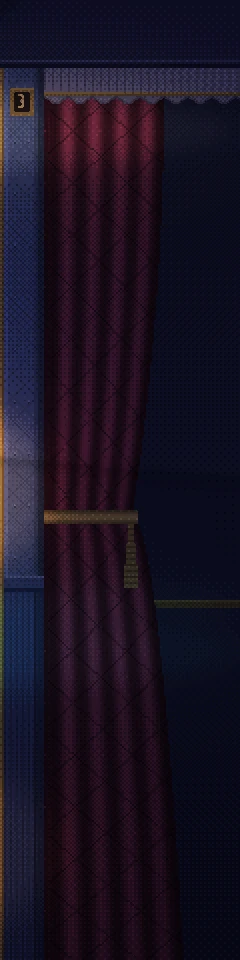
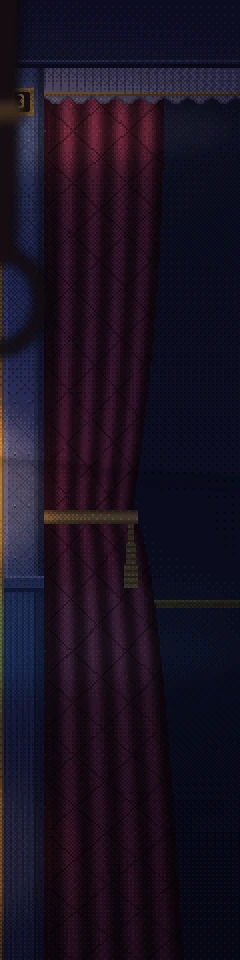
art(S-08): a foreground at the lens
Drawn into the room's picture: the padded end of the left-hand bench's armrest in the lower left corner, and a leather grab strap with a loop hanging from the ceiling at the upper right. Dark, large and blurred as if out of focus, their edges catching the neon and the lamp, and clear of every object. A separate parallax layer stays deferred (D-03).

Changed region(s): [[0.0, 0.0312, 0.175, 0.375]]

diff --git a/tools/art/room.py b/tools/art/room.py
@@ -1919,6 +1919,43 @@ def reflections(a, table, front, k):
 BANDS = float(os.environ.get('BANDS', '0.2')) or None
 
 
+# The near layer (docs/13, S-08, stage 6): things right at the lens, dark,
+# large and a little soft, so the picture has a foreground inside the room as
+# well as at its sides: the end of the left-hand bench's armrest in the lower
+# left corner, and a grab strap hanging from the ceiling at the upper right.
+# Drawn into the room's picture, not as a layer of its own (D-03), and clear of
+# every object, whose sprites are cut from the same picture.
+NEAR_BLUR = 2.2  # scene units: soft, being out of focus so near the lens
+
+
+def near_layer(a, k):
+    h, w = a.shape[:2]
+    lay = Image.new('RGBA', (w, h), (0, 0, 0, 0))
+    d = ImageDraw.Draw(lay)
+    to = lambda pts: [((x + OX) * k, y * k) for x, y in pts]
+    # the armrest: the bench's padded end, near the camera, its top edge
+    # catching the neon
+    arm = [(-60, 480), (-60, 336), (0, 318), (54, 322), (92, 344), (100, 372), (98, 480)]
+    d.polygon(to(arm), fill=(20, 12, 24, 255))
+    d.line(to([(-60, 336), (0, 318), (54, 322), (92, 344)]), fill=(130, 58, 118, 255), width=round(2 * k))
+    d.line(to([(-60, 342), (0, 325), (52, 329), (86, 348)]), fill=(46, 22, 46, 255), width=round(3 * k))
+    for x, y in ((10, 344), (48, 350), (28, 372), (70, 376)):  # buttons in its quilting
+        d.ellipse(to([(x - 2, y - 1.4), (x + 2, y + 1.4)]), fill=(8, 4, 12, 255))
+    # the grab strap: leather from the ceiling right by the lens, a loop at its
+    # foot, its edge toward the lamp catching it
+    strap = [(466, -4), (490, -4), (488, 132), (468, 132)]
+    d.polygon(to(strap), fill=(26, 16, 18, 255))
+    d.line(to([(467, -4), (468, 132)]), fill=(130, 76, 50, 255), width=round(1.5 * k))
+    d.rectangle(to([(464, 52), (492, 60)]), fill=(76, 54, 32, 255))
+    d.line(to([(464, 52), (492, 52)]), fill=(150, 116, 70, 255), width=round(1 * k))
+    d.ellipse(to([(452, 122), (504, 178)]), outline=(26, 16, 18, 255), width=round(8 * k))
+    d.arc(to([(452, 122), (504, 178)]), 120, 235, fill=(130, 76, 50, 255), width=round(1.5 * k))
+    lay = lay.filter(ImageFilter.GaussianBlur(NEAR_BLUR * k))
+    la = np.asarray(lay).astype(np.float32)
+    al = la[..., 3:4] / 255
+    a[..., :3] = (a[..., :3] * (1 - al) + la[..., :3] * al).astype(np.uint8)
+
+
 def build_room(seed=21, over_rack=True):
     """The carriage as one RGBA image at output resolution, and the silhouette
     mask of every interactive object at 1x, keyed by object id. A key ending in
@@ -1983,6 +2020,7 @@ def build_room(seed=21, over_rack=True):
     value_plan(a, near, [g.masks[t] for t in ('projects', 'about', 'journey')], k)
     rim(a, [g.masks.pop('_rim'), near[0], near[2], g.masks['stack']], k)
     reflections(a, near[1], [near[2]] + [g.masks[t] for t in ('projects', 'about', 'journey')], k)
+    near_layer(a, k)
     # The page lays a vignette over the 480 scene (scene.css .vig) and must not
     # be made to cover the side extensions as well: overlays wider than the
     # scene, and gradients painted inside the extensions, both flickered in

diff --git a/docs/13-art-review.md b/docs/13-art-review.md
@@ -910,7 +910,7 @@ Done so far in stage 1, beyond what the step table names:
   behind the rack's rail this way.
 
 Stage 1 passed its gate and is merged. Stage 2 passed its gate and is merged.
-Stage 3 passed its gate and is merged. Stage 4 passed its gate and is merged: sharpness (4.1) was skipped after two attempts that stuttered or did not help (F-005 in 09), banded light (4.2), clean diagonals (4.3) and material marks (4.4) are done. Stage 5 passed its gate and is merged: the laptop (5.1), curtains (5.2), ticket, floor and side fittings (5.3) and the refines (5.4 to 5.6) are done. Stage 6 is next.
+Stage 3 passed its gate and is merged. Stage 4 passed its gate and is merged: sharpness (4.1) was skipped after two attempts that stuttered or did not help (F-005 in 09), banded light (4.2), clean diagonals (4.3) and material marks (4.4) are done. Stage 5 passed its gate and is merged: the laptop (5.1), curtains (5.2), ticket, floor and side fittings (5.3) and the refines (5.4 to 5.6) are done. Stage 6 is built and waiting at its gate: `near_layer()` in `room.py` draws, into the room's picture, the end of the left-hand bench's armrest in the lower left corner and a leather grab strap with a loop hanging from the ceiling at the upper right, dark, large and blurred by 2.2 units, its edges catching the neon and the lamp, clear of every object. A separate parallax layer (D-03) stays deferred.
 
 ## Keep in sync
 
